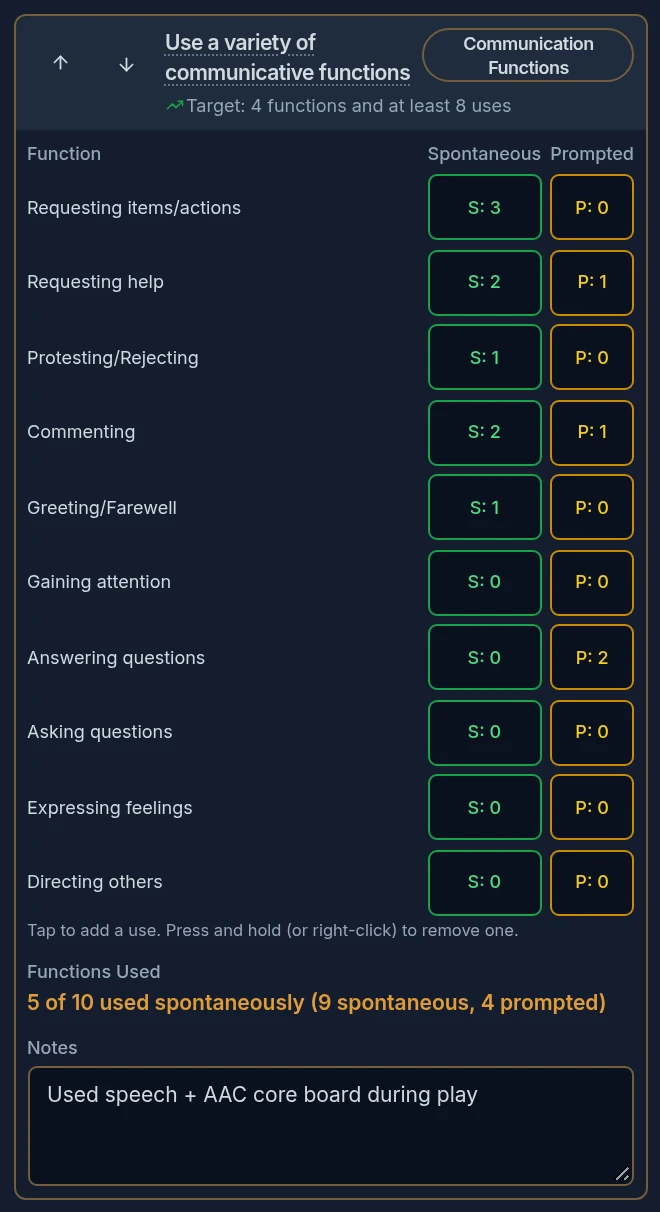
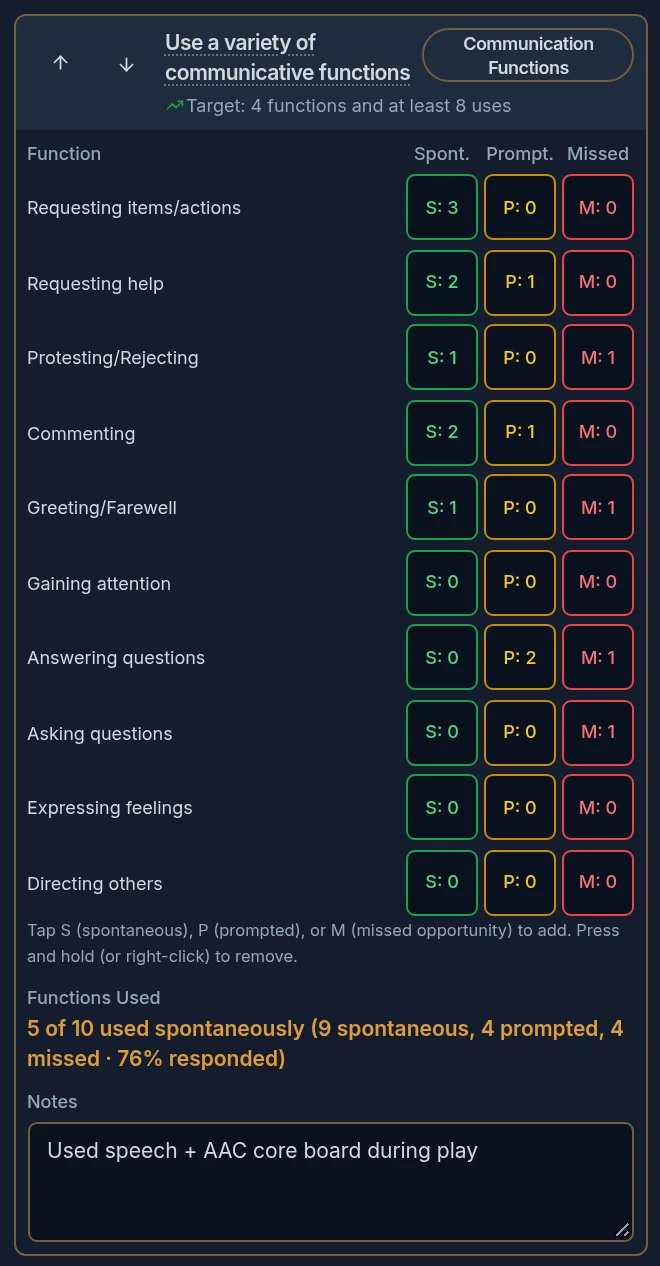
Add missed opportunity tracking to Communication Functions goals

diff --git a/src/components/forms/goal-inputs/communication.tsx b/src/components/forms/goal-inputs/communication.tsx
@@ -9,7 +9,7 @@ import { FormItem, FormLabel, type GoalInputContext } from './shared';
 
 // Data Entry inputs for goal types (see goal-data-input.tsx, which picks the inputs for a goal's type).
 
-/** Communication functions: each function used spontaneously or prompted. */
+/** Communication functions: each function tallied as spontaneous, prompted, or missed opportunity. */
 export function CommunicationFunctionsInputs({ ctx }: { ctx: GoalInputContext }) {
   const { data, isArchived, isLocked, handleChange, handleInteraction, calculateAccuracy } = ctx;
   const tally = (field: string, delta: number) => (e: React.SyntheticEvent<HTMLButtonElement>) =>
@@ -17,18 +17,19 @@ export function CommunicationFunctionsInputs({ ctx }: { ctx: GoalInputContext })
   return (
     <>
       <FormItem>
-        <div className="grid grid-cols-[1fr_auto_auto] items-center gap-x-1.5 gap-y-1.5">
+        <div className="grid grid-cols-[1fr_auto_auto_auto] items-center gap-x-1 gap-y-1.5">
           <FormLabel>Function</FormLabel>
-          <FormLabel>Spontaneous</FormLabel>
-          <FormLabel>Prompted</FormLabel>
+          <FormLabel className="text-center" title="Spontaneous">Spont.</FormLabel>
+          <FormLabel className="text-center" title="Prompted">Prompt.</FormLabel>
+          <FormLabel className="text-center" title="Missed opportunity (no response)">Missed</FormLabel>
           {COMMUNICATION_FUNCTIONS.map(({ key, label }) => (
             <React.Fragment key={key}>
-              <span className="text-xs">{label}</span>
+              <span className="text-xs leading-tight pr-0.5">{label}</span>
               <TallyButton
                 label="S"
                 count={Number(data[`${key}Spontaneous`]) || 0}
                 title={`${label}, spontaneous`}
-                className="border-green-600 text-green-700 dark:text-green-400"
+                className="min-w-[3rem] px-1.5 border-green-600 text-green-700 dark:text-green-400"
                 disabled={isArchived}
                 onIncrement={tally(`${key}Spontaneous`, 1)}
                 onDecrement={tally(`${key}Spontaneous`, -1)}
@@ -37,15 +38,24 @@ export function CommunicationFunctionsInputs({ ctx }: { ctx: GoalInputContext })
                 label="P"
                 count={Number(data[`${key}Prompted`]) || 0}
                 title={`${label}, prompted`}
-                className="border-yellow-600 text-yellow-700 dark:text-yellow-400"
+                className="min-w-[3rem] px-1.5 border-yellow-600 text-yellow-700 dark:text-yellow-400"
                 disabled={isArchived}
                 onIncrement={tally(`${key}Prompted`, 1)}
                 onDecrement={tally(`${key}Prompted`, -1)}
               />
+              <TallyButton
+                label="M"
+                count={Number(data[`${key}Missed`]) || 0}
+                title={`${label}, missed opportunity`}
+                className="min-w-[3rem] px-1.5 border-red-500 text-red-700 dark:text-red-400"
+                disabled={isArchived}
+                onIncrement={tally(`${key}Missed`, 1)}
+                onDecrement={tally(`${key}Missed`, -1)}
+              />
             </React.Fragment>
           ))}
         </div>
-        <p className="text-[11px] text-muted-foreground">Tap to add a use. Press and hold (or right-click) to remove one.</p>
+        <p className="text-[11px] text-muted-foreground">Tap S (spontaneous), P (prompted), or M (missed opportunity) to add. Press and hold (or right-click) to remove.</p>
       </FormItem>
       <div className="mt-1.5">
         <FormLabel>Functions Used</FormLabel>

diff --git a/src/lib/goal-constants/communication.ts b/src/lib/goal-constants/communication.ts
@@ -1,7 +1,7 @@
 import type { GoalTemplate } from '../types';
 
 // Communicative functions tallied by the COMMUNICATION_FUNCTIONS goal type. Each function has a
-// spontaneous and a prompted count, stored as `${key}Spontaneous` / `${key}Prompted`.
+// spontaneous, prompted, and missed-opportunity count, stored as `${key}Spontaneous` / `${key}Prompted` / `${key}Missed`.
 export const COMMUNICATION_FUNCTIONS = [
   { key: 'requestingItems', label: 'Requesting items/actions' },
   { key: 'requestingHelp', label: 'Requesting help' },
@@ -18,28 +18,52 @@ export const COMMUNICATION_FUNCTIONS = [
 export const COMMUNICATION_FIELDS: Record<string, Record<string, any>> = {
   COMMUNICATION_FUNCTIONS: {
     notes: '',
-    ...Object.fromEntries(COMMUNICATION_FUNCTIONS.flatMap(f => [[`${f.key}Spontaneous`, 0], [`${f.key}Prompted`, 0]])),
+    ...Object.fromEntries(COMMUNICATION_FUNCTIONS.flatMap(f => [
+      [`${f.key}Spontaneous`, 0],
+      [`${f.key}Prompted`, 0],
+      [`${f.key}Missed`, 0],
+    ])),
   },
 };
 
 /**
  * Totals for a COMMUNICATION_FUNCTIONS session. Progress is measured by `functionsUsedSpontaneously`:
- * the number of different functions the student used at least once without a prompt.
+ * the number of different functions the student used at least once without a prompt. Missed opportunities
+ * distinguish functions that were targeted without a response from functions that had no opportunity.
  */
 export function summarizeCommunicationFunctions(data: Record<string, any> = {}) {
   let spontaneous = 0;
   let prompted = 0;
+  let missed = 0;
   let functionsUsedSpontaneously = 0;
   let functionsUsed = 0;
+  let functionsWithOpportunities = 0;
   for (const { key } of COMMUNICATION_FUNCTIONS) {
-    const s = Number(data[`${key}Spontaneous`]) || 0;
-    const p = Number(data[`${key}Prompted`]) || 0;
+    const s = Math.max(0, Number(data[`${key}Spontaneous`]) || 0);
+    const p = Math.max(0, Number(data[`${key}Prompted`]) || 0);
+    const m = Math.max(0, Number(data[`${key}Missed`]) || 0);
     spontaneous += s;
     prompted += p;
+    missed += m;
     if (s > 0) functionsUsedSpontaneously += 1;
     if (s + p > 0) functionsUsed += 1;
+    if (s + p + m > 0) functionsWithOpportunities += 1;
   }
-  return { spontaneous, prompted, functionsUsedSpontaneously, functionsUsed, functionCount: COMMUNICATION_FUNCTIONS.length };
+  const opportunities = spontaneous + prompted + missed;
+  const responded = spontaneous + prompted;
+  const responseRate = opportunities > 0 ? (responded / opportunities) * 100 : null;
+  return {
+    spontaneous,
+    prompted,
+    missed,
+    opportunities,
+    responded,
+    responseRate,
+    functionsUsedSpontaneously,
+    functionsUsed,
+    functionsWithOpportunities,
+    functionCount: COMMUNICATION_FUNCTIONS.length,
+  };
 }
 
 // sessionTargetValue for this type is a number of different functions, not a percentage.

diff --git a/src/components/charts/analysis-charts/GoalCharts.tsx b/src/components/charts/analysis-charts/GoalCharts.tsx
@@ -136,14 +136,27 @@ const GoalBreakdowns: React.FC<{ goal: Goal; recorded: Recorded[] }> = ({ goal, 
     );
   }
   if (type === 'COMMUNICATION_FUNCTIONS') {
+    const rows = COMMUNICATION_FUNCTIONS
+      .map(f => ({
+        name: f.label,
+        spontaneous: sum(d => Math.max(0, Number(d[`${f.key}Spontaneous`]) || 0)),
+        prompted: sum(d => Math.max(0, Number(d[`${f.key}Prompted`]) || 0)),
+        missed: sum(d => Math.max(0, Number(d[`${f.key}Missed`]) || 0)),
+      }))
+      .filter(r => r.spontaneous + r.prompted + r.missed > 0);
+    const totalMissed = rows.reduce((t, r) => t + r.missed, 0);
+    const totalResponded = rows.reduce((t, r) => t + r.spontaneous + r.prompted, 0);
+    const totalOpportunities = totalResponded + totalMissed;
+    const series = [
+      { key: 'spontaneous', label: 'Spontaneous', color: 'hsl(var(--chart-2))' },
+      { key: 'prompted', label: 'Prompted', color: 'hsl(var(--chart-4))' },
+      ...(totalMissed > 0 ? [{ key: 'missed', label: 'Missed', color: 'hsl(var(--chart-1))' }] : []),
+    ];
+    const title = totalMissed > 0 && totalOpportunities > 0
+      ? `Opportunities by function (${Math.round((totalResponded / totalOpportunities) * 100)}% responded)`
+      : 'Uses by function';
     panels.push(
-      <HBars key="functions" title="Uses by function" series={[
-        { key: 'spontaneous', label: 'Spontaneous', color: 'hsl(var(--chart-2))' },
-        { key: 'prompted', label: 'Prompted', color: 'hsl(var(--chart-4))' },
-      ]}
-        rows={COMMUNICATION_FUNCTIONS
-          .map(f => ({ name: f.label, spontaneous: sum(d => Number(d[`${f.key}Spontaneous`]) || 0), prompted: sum(d => Number(d[`${f.key}Prompted`]) || 0) }))
-          .filter(r => r.spontaneous + r.prompted > 0)} />,
+      <HBars key="functions" title={title} series={series} rows={rows} />,
     );
   }
   if (type === 'TASK_ANALYSIS') {

diff --git a/src/lib/report-narrative.ts b/src/lib/report-narrative.ts
@@ -337,11 +337,25 @@ function detailSentences(name: string, goal: Goal, data: Record<string, any>[]):
     const summary = data.map(d => summarizeCommunicationFunctions(d));
     const spontaneous = sum(summary.map(s => s.spontaneous));
     const prompted = sum(summary.map(s => s.prompted));
+    const missed = sum(summary.map(s => s.missed));
+    const opportunities = spontaneous + prompted + missed;
     const byFunction = COMMUNICATION_FUNCTIONS
       .map(f => ({ label: f.label.toLowerCase(), s: total(`${f.key}Spontaneous`) }))
       .filter(f => f.s > 0).sort((x, y) => y.s - x.s);
-    lines.push(`${name} used communicative functions ${spontaneous} times spontaneously and ${prompted} times with a prompt.`);
+    if (missed > 0) {
+      const responded = spontaneous + prompted;
+      const oppLabel = opportunities === 1 ? 'communicative opportunity' : 'communicative opportunities';
+      lines.push(`${name} responded to ${responded} of ${opportunities} ${oppLabel} (${pct((responded / opportunities) * 100)}): ${spontaneous} spontaneously, ${prompted} with a prompt, and ${missed} missed.`);
+    } else {
+      lines.push(`${name} used communicative functions ${spontaneous} times spontaneously and ${prompted} times with a prompt.`);
+    }
     if (byFunction.length) lines.push(`The functions used most often without a prompt were ${byFunction.slice(0, 3).map(f => `${f.label} (${f.s})`).join(', ')}.`);
+    const missedByFunction = COMMUNICATION_FUNCTIONS
+      .map(f => ({ label: f.label.toLowerCase(), m: total(`${f.key}Missed`) }))
+      .filter(f => f.m > 0).sort((x, y) => y.m - x.m);
+    if (missedByFunction.length) {
+      lines.push(`Opportunities were most often missed for ${missedByFunction.slice(0, 3).map(f => `${f.label} (${f.m})`).join(', ')}.`);
+    }
   }
 
   if (type === 'GOAL_ATTAINMENT_SCALE') {

diff --git a/src/lib/__tests__/report-narrative.test.ts b/src/lib/__tests__/report-narrative.test.ts
@@ -163,3 +163,33 @@ describe('behavior rates and streaks', () => {
     expect(text).toMatch(/last 2 sessions in a row/);
   });
 });
+
+describe('communication functions narrative', () => {
+  const cf = goal({ id: 'g4', name: 'Use communicative functions', type: 'COMMUNICATION_FUNCTIONS', sessionTargetValue: 3 });
+  const cfSession = (date: string, data: Record<string, any>) =>
+    session({ date, goals: [{ goalId: 'g4', goalName: 'Use communicative functions', goalType: 'COMMUNICATION_FUNCTIONS', data }] });
+
+  it('keeps legacy phrasing when no missed opportunities were recorded', () => {
+    const text = buildNarrative({
+      student,
+      goals: [cf],
+      sessions: [cfSession('2026-10-01T09:00:00Z', { requestingItemsSpontaneous: 3, commentingPrompted: 2 })],
+    });
+    expect(text).toContain('Ava used communicative functions 3 times spontaneously and 2 times with a prompt.');
+    expect(text).not.toContain('missed');
+  });
+
+  it('reports response rate and top missed functions when missed opportunities are recorded', () => {
+    const text = buildNarrative({
+      student,
+      goals: [cf],
+      sessions: [
+        cfSession('2026-10-01T09:00:00Z', { requestingItemsSpontaneous: 3, commentingSpontaneous: 1, protestingPrompted: 2, askingQuestionsMissed: 2 }),
+        cfSession('2026-10-08T09:00:00Z', { greetingMissed: 1, askingQuestionsMissed: 1 }),
+      ],
+    });
+    expect(text).toContain('Ava responded to 6 of 10 communicative opportunities (60%): 4 spontaneously, 2 with a prompt, and 4 missed.');
+    expect(text).toContain('Opportunities were most often missed for asking questions (3), greeting/farewell (1).');
+    expect(text).toContain('Across 2 sessions with data, the number of functions used spontaneously averaged 1 (range 0 to 2).');
+  });
+});

diff --git a/src/app/(app)/help/page.tsx b/src/app/(app)/help/page.tsx
@@ -83,7 +83,7 @@ const GOAL_TYPE_HELP: { type: GoalType; does: string }[] = [
   { type: 'PROMPTING', does: 'Tally the prompt level of each response; the measure is the share given independently.' },
   { type: 'COGNITIVE', does: 'Give a 1–5 rating and tally the prompt level of each response, with notes.' },
   { type: 'QUALITATIVE_OBSERVATION', does: 'Give a 1–5 rating and tally the prompt level of each response, with notes.' },
-  { type: 'COMMUNICATION_FUNCTIONS', does: 'Tally each function (requesting, protesting, commenting, greeting, and others), spontaneous or prompted. The measure counts the functions used spontaneously.' },
+  { type: 'COMMUNICATION_FUNCTIONS', does: 'Tally each function (requesting, protesting, commenting, greeting, and others) as spontaneous, prompted, or a missed opportunity. The measure counts the functions used spontaneously, and reports show overall response rate when missed opportunities are recorded.' },
   { type: 'FLUENCY_SYLLABLE_STUTTER', does: 'Count total syllables and each kind of dysfluency (repetitions, prolongations, blocks, interjections, secondary behaviors). The measure is the share of fluent syllables.' },
   { type: 'STORY_ELEMENTS', does: 'Score each story part (character, setting, problem, feeling, action, ending, end feeling) 0 (missing), 1 (partial) or 2 (complete), or N/A when it wasn’t assessed, and tally linking words (because, then, when, so, after, but). The measure is the share of points for the parts assessed; N/A parts are left out.' },
   { type: 'TASK_ANALYSIS', does: 'Score each step of a routine as Independent, with a prompt level, or Not done. The measure is the share of steps done independently.' },

diff --git a/src/components/forms/goal-inputs/shared.tsx b/src/components/forms/goal-inputs/shared.tsx
@@ -2,6 +2,7 @@
 
 import React from 'react';
 import { Label } from '@/components/ui/label';
+import { cn } from '@/lib/utils';
 import type { Goal, TrialStatus } from '@/lib/types';
 
 // What every goal type's inputs get from the goal card (goal-data-input.tsx), and the small layout pieces they share.
@@ -27,8 +28,8 @@ export interface GoalInputContext {
 }
 
 export const FormItem: React.FC<{ children: React.ReactNode; className?: string }> = ({ children, className }) => (
-  <div className={`space-y-0.5 ${className}`}>{children}</div>
+  <div className={cn('space-y-0.5', className)}>{children}</div>
 );
-export const FormLabel: React.FC<{ children: React.ReactNode; htmlFor?: string }> = ({ children, htmlFor }) => (
-  <Label htmlFor={htmlFor} className="text-xs font-medium text-muted-foreground">{children}</Label>
+export const FormLabel: React.FC<{ children: React.ReactNode; htmlFor?: string; className?: string; title?: string }> = ({ children, htmlFor, className, title }) => (
+  <Label htmlFor={htmlFor} title={title} className={cn('text-xs font-medium text-muted-foreground', className)}>{children}</Label>
 );

diff --git a/src/lib/__tests__/goal-input-logic.test.ts b/src/lib/__tests__/goal-input-logic.test.ts
@@ -43,7 +43,9 @@ describe('goalAccuracyText', () => {
     expect(goalAccuracyText('FLUENCY_SYLLABLE_STUTTER', { totalSyllables: 20, blocks: 1, repetitions: 1 })).toBe('90.0% (18/20)');
     expect(goalAccuracyText('DISCRETE_TRIALS', { trials: ['correct', 'incorrect', 'untouched'] })).toBe('50.0% (1/2)');
     expect(goalAccuracyText('STORY_ELEMENTS', { character: 2, setting: 1 })).toBe('21.4% (3/14 points)');
-    expect(goalAccuracyText('COMMUNICATION_FUNCTIONS', {})).toMatch(/^0 of \d+ used spontaneously/);
+    expect(goalAccuracyText('COMMUNICATION_FUNCTIONS', {})).toMatch(/^0 of \d+ used spontaneously \(0 spontaneous, 0 prompted, 0 missed\)$/);
+    expect(goalAccuracyText('COMMUNICATION_FUNCTIONS', { requestingItemsSpontaneous: 3, commentingPrompted: 1, protestingMissed: 2 }))
+      .toMatch(/^1 of \d+ used spontaneously \(3 spontaneous, 1 prompted, 2 missed · 67% responded\)$/);
     expect(goalAccuracyText('COGNITIVE', {})).toBe('N/A');
   });
 });

diff --git a/src/lib/__tests__/goal-measures.test.ts b/src/lib/__tests__/goal-measures.test.ts
@@ -73,4 +73,15 @@ describe('communication functions measure and target', () => {
     expect(sessionMeetsTarget({ type: 'COMMUNICATION_FUNCTIONS' }, { requestingItemsSpontaneous: 2 }, 2)).toBe(false);
     expect(sessionMeetsTarget({ type: 'COMMUNICATION_FUNCTIONS' }, {}, 2)).toBe(false);
   });
+
+  it('treats recorded missed opportunities as an observed 0 and does not count them toward target uses', () => {
+    // Only missed opportunities recorded (even without `recorded: true`): real 0, not no data.
+    expect(goalMeasure({ type: 'COMMUNICATION_FUNCTIONS' }, { commentingMissed: 2, protestingMissed: 1 })).toBe(0);
+    expect(sessionMeetsTarget({ type: 'COMMUNICATION_FUNCTIONS' }, { commentingMissed: 3 }, 2)).toBe(false);
+    expect(sessionMeetsTarget(
+      { type: 'COMMUNICATION_FUNCTIONS', sessionTargetUses: 5 },
+      { requestingItemsSpontaneous: 2, commentingSpontaneous: 1, protestingMissed: 4 },
+      2,
+    )).toBe(false);
+  });
 });

diff --git a/src/lib/goal-type-screenshots.ts b/src/lib/goal-type-screenshots.ts
@@ -24,7 +24,7 @@ export const GOAL_TYPE_SCREENSHOTS: Record<GoalType, GoalTypeScreenshot> = {
   COGNITIVE: { src: '/help/goal-types/cognitive.webp', width: 330, height: 307 },
   COMMUNICATION_COUNT: { src: '/help/goal-types/communication-count.webp', width: 330, height: 365 },
   COMMUNICATION_DURATION: { src: '/help/goal-types/communication-duration.webp', width: 330, height: 466 },
-  COMMUNICATION_FUNCTIONS: { src: '/help/goal-types/communication-functions.webp', width: 330, height: 606 },
+  COMMUNICATION_FUNCTIONS: { src: '/help/goal-types/communication-functions.webp', width: 330, height: 633 },
   COMMUNICATION_OPPORTUNITIES: { src: '/help/goal-types/communication-opportunities.webp', width: 330, height: 334 },
   DISCRETE_TRIALS: { src: '/help/goal-types/discrete-trials.webp', width: 330, height: 373 },
   FEEDING_SWALLOWING: { src: '/help/goal-types/feeding-swallowing.webp', width: 330, height: 412 },

diff --git a/src/lib/goal-input-logic.ts b/src/lib/goal-input-logic.ts
@@ -54,7 +54,10 @@ export function goalAccuracyText(captureType: string, data: Record<string, any>)
     }
     case 'COMMUNICATION_FUNCTIONS': {
       const summary = summarizeCommunicationFunctions(data);
-      return `${summary.functionsUsedSpontaneously} of ${summary.functionCount} used spontaneously (${summary.spontaneous} spontaneous, ${summary.prompted} prompted)`;
+      const responseNote = summary.missed > 0 && summary.responseRate !== null
+        ? ` · ${Math.round(summary.responseRate)}% responded`
+        : '';
+      return `${summary.functionsUsedSpontaneously} of ${summary.functionCount} used spontaneously (${summary.spontaneous} spontaneous, ${summary.prompted} prompted, ${summary.missed} missed${responseNote})`;
     }
     case 'STORY_ELEMENTS': {
       const story = scoreStory(data);

diff --git a/src/lib/__tests__/session-merge.test.ts b/src/lib/__tests__/session-merge.test.ts
@@ -112,6 +112,19 @@ describe('mergeGoalData', () => {
     // A value the later part did record still wins.
     expect(mergeGoalData([{ targetSound: '/s/' }, { targetSound: '/z/' }]).targetSound).toBe('/z/');
   });
+
+  it('sums spontaneous, prompted, and missed communication function counts across split sessions', () => {
+    const merged = mergeGoalData([
+      { requestingItemsSpontaneous: 2, commentingPrompted: 1, protestingMissed: 1 },
+      { requestingItemsSpontaneous: 1, commentingPrompted: 2, protestingMissed: 2, greetingMissed: 1 },
+    ]);
+    expect(merged).toMatchObject({
+      requestingItemsSpontaneous: 3,
+      commentingPrompted: 3,
+      protestingMissed: 3,
+      greetingMissed: 1,
+    });
+  });
 });
 
 describe('mergeSessions', () => {
